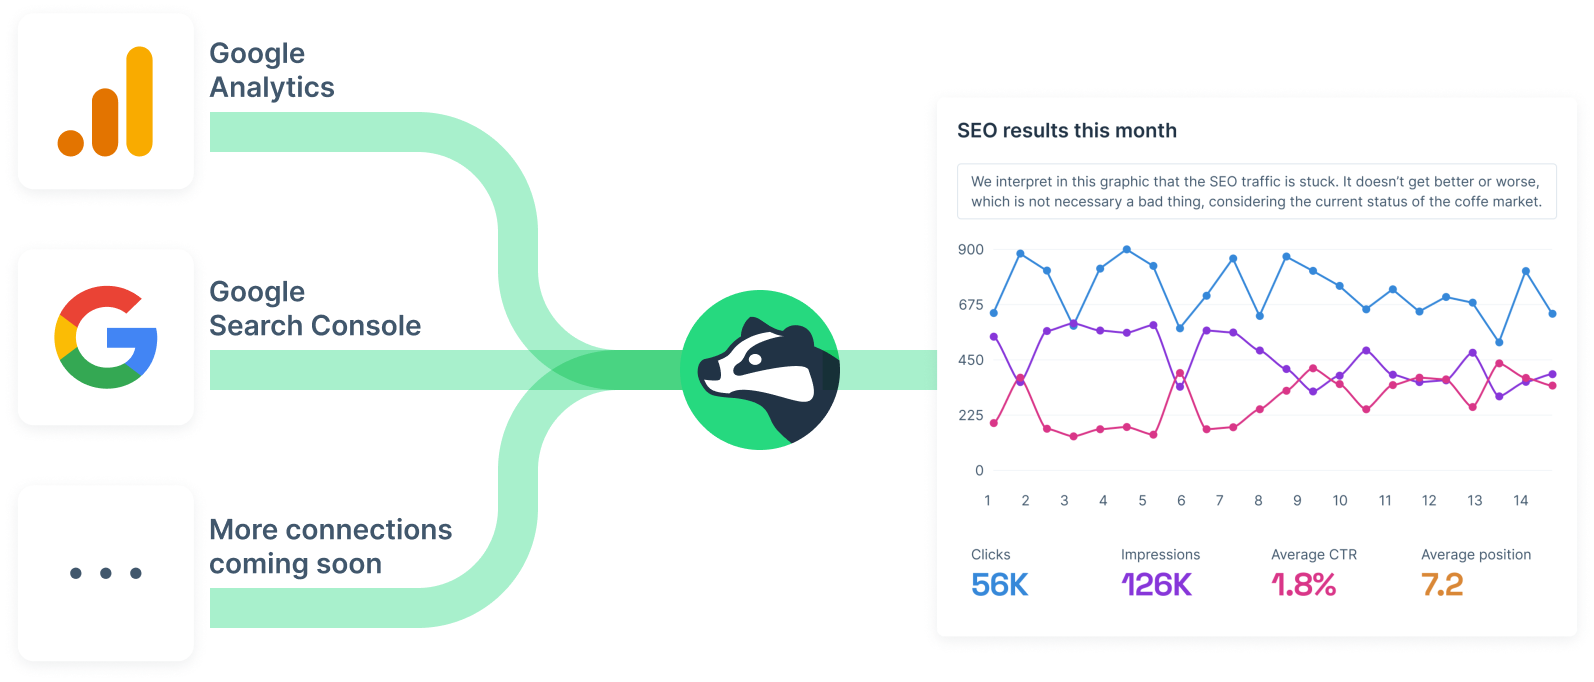
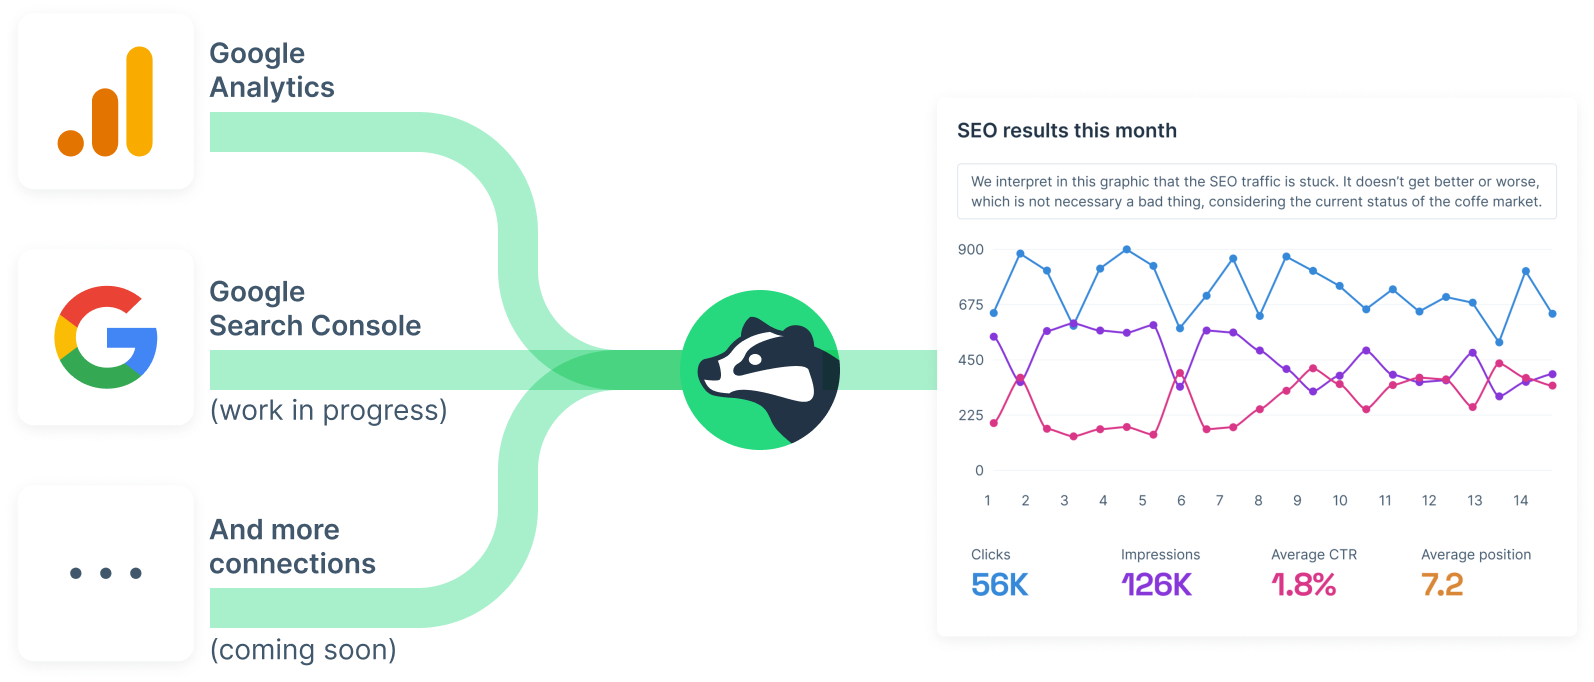
added coming-soon and work in progress

Changed region(s): [[0.123, 0.739, 0.3074, 0.8622], [0.123, 0.9238, 0.2459, 0.9853], [0.123, 0.585, 0.2767, 0.6158]]

diff --git a/_includes/styles/components/navbar.css b/_includes/styles/components/navbar.css
@@ -50,8 +50,11 @@
     z-index: 1;
     position: fixed;
     top: 0;
+    right: 0;
     left: 0;
     width: 100%;
+    max-width: 1250px;
+    margin: 0 auto;
     height: 65px;
     box-shadow: 0 0 32px -16px #0004;
   }
